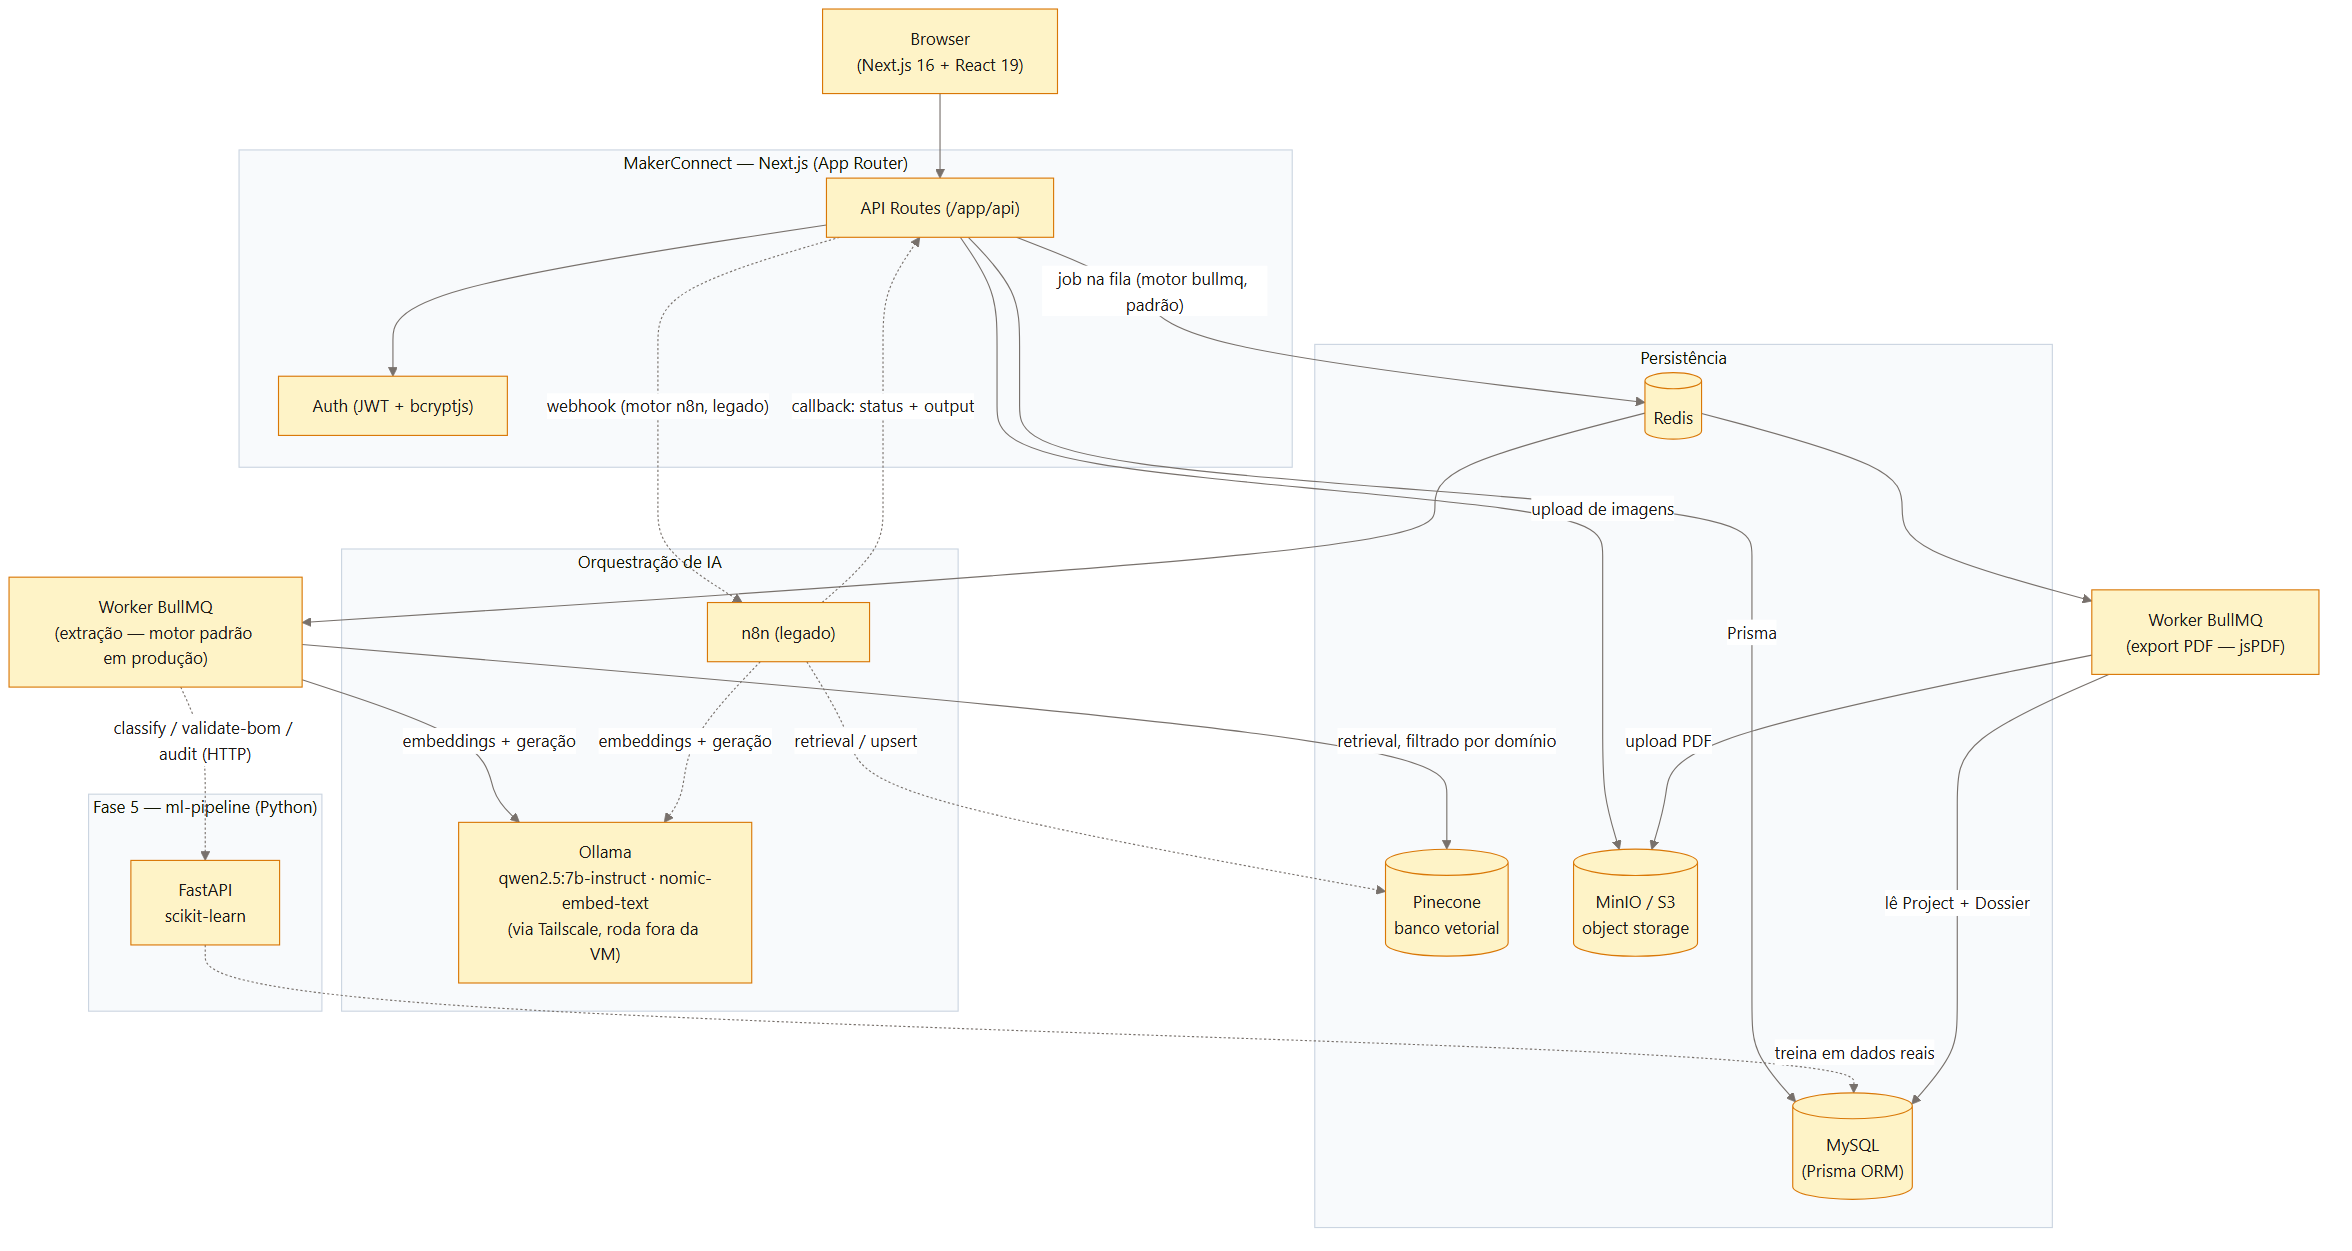
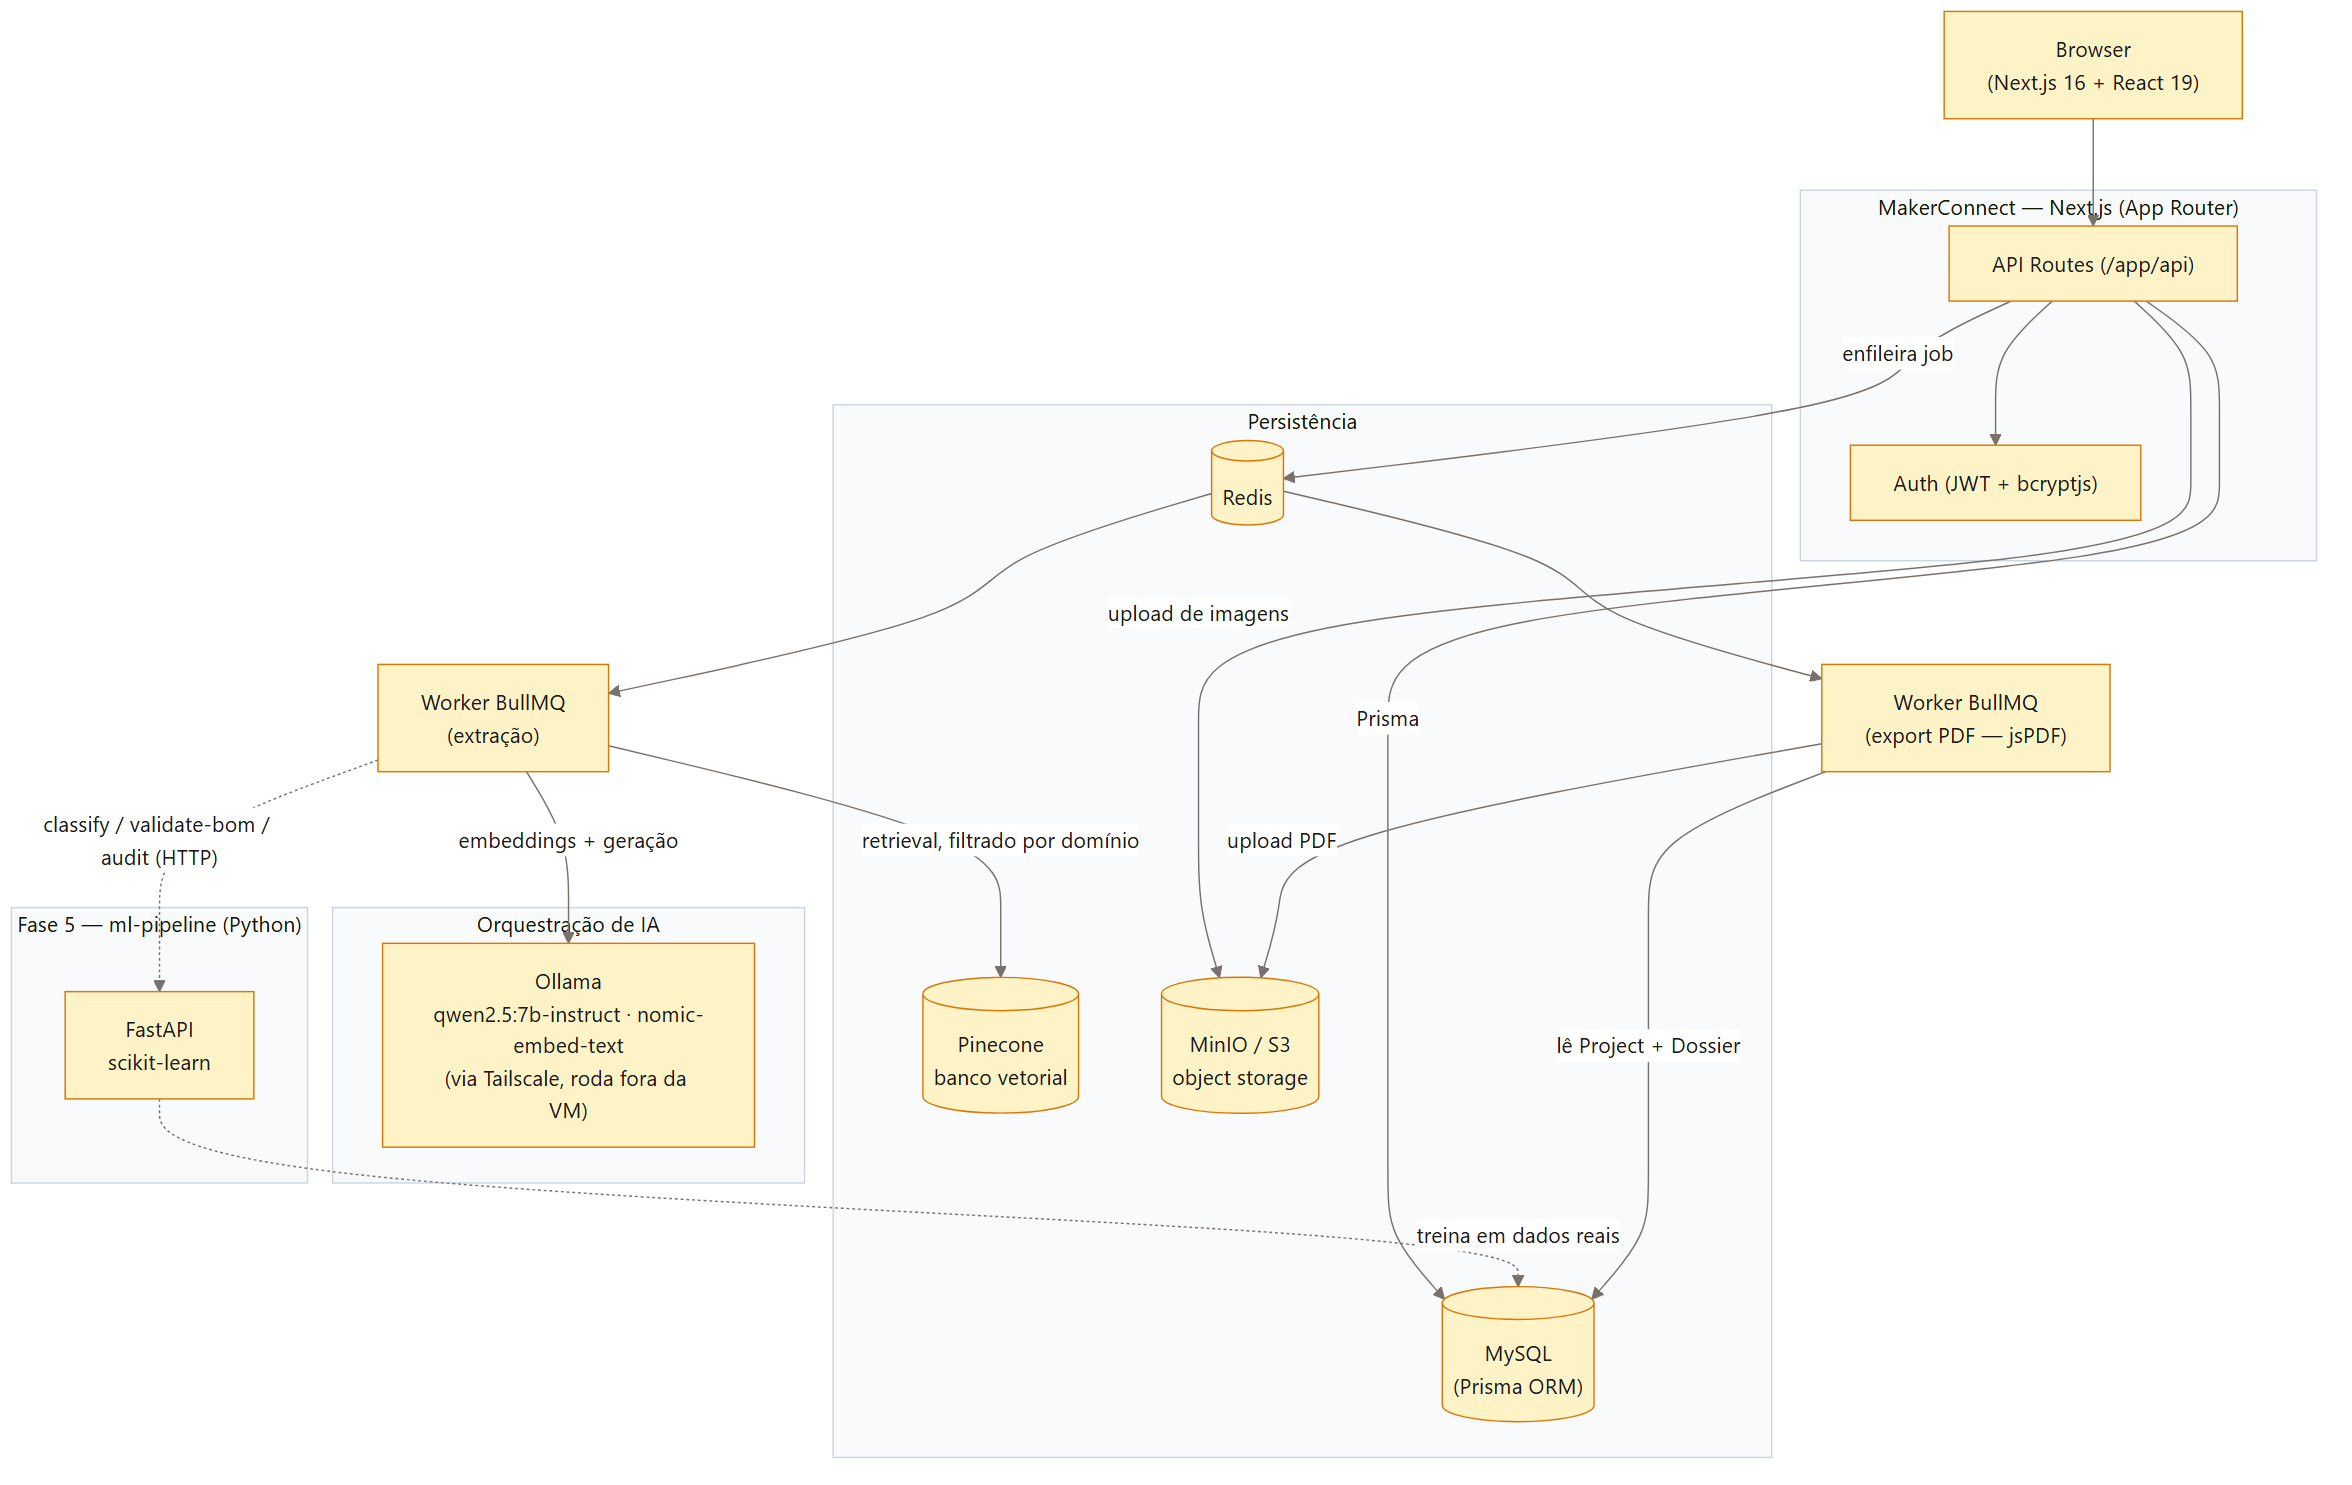
docs(readme): remover n8n dos diagramas de stack e arquitetura
BullMQ ja e o unico motor mostrado nos diagramas (n8n continua existindo no
codigo como fallback legado, so foi retirado da representacao visual).
Simplifica a arquitetura pra um fluxo linear unico, sem o desvio n8n/bullmq.

diff --git a/README.md b/README.md
@@ -126,7 +126,7 @@ SINGH, A.; KUMAR, P. Agentic RAG: Orchestrating Autonomous Generative Agents for
 
 ## Diagrama da Stack
 
-<p align="center"><img src="assets/diagrams/stack.png" alt="Diagrama da stack: Next.js, MySQL, Redis/BullMQ (worker de extração e worker de PDF), Ollama, Pinecone, MinIO, ml-pipeline (Fase 5), n8n como motor legado" width="100%" /></p>
+<p align="center"><img src="assets/diagrams/stack.png" alt="Diagrama da stack: Next.js, MySQL, Redis/BullMQ (worker de extração e worker de PDF), Ollama, Pinecone, MinIO, ml-pipeline (Fase 5)" width="100%" /></p>
 
 Para atualizar: edite `scripts/diagrams/stack.mmd` e rode `node scripts/gerar-diagramas.mjs`.
 
@@ -134,7 +134,7 @@ Para atualizar: edite `scripts/diagrams/stack.mmd` e rode `node scripts/gerar-di
 
 ## Arquitetura — Fluxo Principal
 
-<p align="center"><img src="assets/diagrams/arquitetura-fluxo.png" alt="Fluxo de extração e exportação: sanitização, motor BullMQ (padrão) com classificação e auditoria da Fase 5 ou n8n (legado), Dossiê Técnico editável, exportação PDF" width="100%" /></p>
+<p align="center"><img src="assets/diagrams/arquitetura-fluxo.png" alt="Fluxo de extração e exportação: sanitização, motor BullMQ com classificação e auditoria da Fase 5, Dossiê Técnico editável, exportação PDF" width="100%" /></p>
 
 Para atualizar: edite `scripts/diagrams/arquitetura-fluxo.mmd` e rode `node scripts/gerar-diagramas.mjs`.
 
